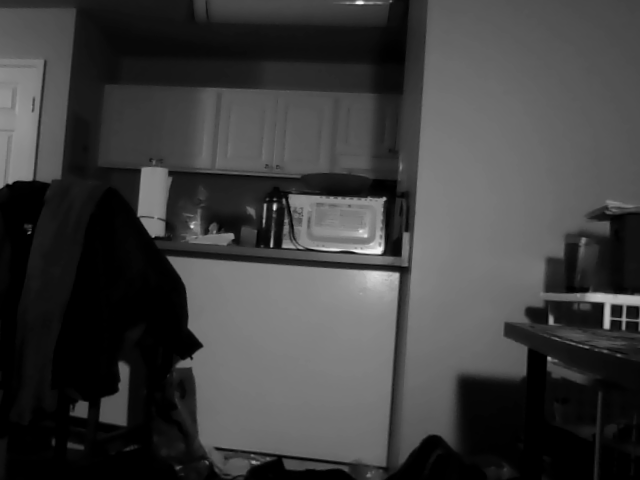
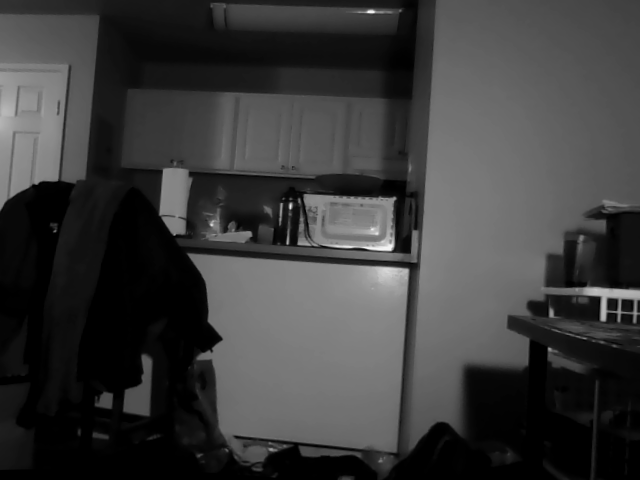
add fisheye functionality. add potential wls filtering to stereo_vision.py

diff --git a/computer_vision/calibration/opencv_fisheye_calibration.py b/computer_vision/calibration/opencv_fisheye_calibration.py
@@ -1,0 +1,205 @@
+import cv2
+import glob
+import numpy as np
+from computer_vision import config
+
+def calibrate_camera(images_folder, calibration_parameters):
+    images_names = sorted(glob.glob(images_folder))
+    images = []
+    for imname in images_names:
+        im = cv2.imread(imname, cv2.IMREAD_GRAYSCALE)
+        images.append(im)
+ 
+    # criteria used by checkerboard pattern detector.
+    criteria = (cv2.TERM_CRITERIA_EPS + cv2.TERM_CRITERIA_MAX_ITER, 30, 0.001)
+ 
+    rows = calibration_parameters[0] # number of checkerboard rows.
+    columns = calibration_parameters[1] # number of checkerboard columns.
+    world_scaling = calibration_parameters[2] # size of one chessboard square in meters
+    shape = (rows, columns)
+ 
+    # coordinates of squares in the checkerboard world space
+    objp = np.zeros((1, rows * columns, 3), np.float32)
+    objp[0, :, :2] = np.mgrid[0:rows, 0:columns].T.reshape(-1, 2)
+    objp = world_scaling * objp
+ 
+    # frame dimensions
+    width = images[0].shape[1]
+    height = images[0].shape[0]
+ 
+    # pixel coordinates of checkerboards
+    imgpoints = [] # 2d points in image plane.
+ 
+    # coordinates of the checkerboard in checkerboard world space.
+    objpoints = [] # 3d point in real world space
+ 
+    for frame in images:
+ 
+        # find the checkerboard
+        ret, corners = cv2.findChessboardCorners(frame, shape, None)
+ 
+        if ret == True:
+ 
+            # convolution size used to improve corner detection. Don't make this too large.
+            conv_size = (3, 3)
+ 
+            # opencv can attempt to improve the checkerboard coordinates
+            corners = cv2.cornerSubPix(frame, corners, conv_size, (-1, -1), criteria)
+            cv2.drawChessboardCorners(frame, shape, corners, ret)
+ 
+            objpoints.append(objp)
+            imgpoints.append(corners)
+
+    # Ensure correct fisheye shapes
+    objpoints = [op.reshape(1, -1, 3) for op in objpoints]
+    imgpoints = [ip.reshape(1, -1, 2) for ip in imgpoints]
+
+    flags = cv2.fisheye.CALIB_RECOMPUTE_EXTRINSIC + \
+            cv2.fisheye.CALIB_FIX_SKEW + \
+            cv2.fisheye.CALIB_CHECK_COND
+
+    ret, mtx, dist, rvecs, tvecs = cv2.fisheye.calibrate(
+    objpoints, imgpoints, (width, height), None, None, None, None,
+    flags, criteria
+)
+ 
+    print('rmse:', ret)
+    print('camera matrix:\n', mtx)
+    print('distortion coeffs:', dist)
+    print('Rs:\n', rvecs)
+    print('Ts:\n', tvecs)
+ 
+    return mtx, dist
+
+
+def stereo_calibrate(mtx1, dist1, mtx2, dist2, left_images, right_images, calibration_parameters):
+    # read the synched frames
+    images_names_l = glob.glob(left_images)
+    images_names_l = sorted(images_names_l)
+    c1_images_names = images_names_l
+    
+    images_names_r = glob.glob(right_images)
+    images_names_r = sorted(images_names_r)
+    c2_images_names = images_names_r
+ 
+    c1_images = []
+    c2_images = []
+    for im1, im2 in zip(c1_images_names, c2_images_names):
+        _im = cv2.imread(im1, cv2.IMREAD_GRAYSCALE)
+        c1_images.append(_im)
+ 
+        _im = cv2.imread(im2, cv2.IMREAD_GRAYSCALE)
+        c2_images.append(_im)
+ 
+    # change this if stereo calibration not good.
+    criteria = (cv2.TERM_CRITERIA_EPS + cv2.TERM_CRITERIA_MAX_ITER, 100, 0.0001)
+ 
+    rows = calibration_parameters[0] # number of checkerboard rows.
+    columns = calibration_parameters[1] # number of checkerboard columns.
+    world_scaling = calibration_parameters[2] # size of one chessboard square in meters
+    shape = (rows, columns)
+ 
+    # coordinates of squares in the checkerboard world space
+    objp = np.zeros((rows*columns,3), np.float32)
+    objp[:,:2] = np.mgrid[0:rows,0:columns].T.reshape(-1,2)
+    objp = world_scaling* objp
+ 
+    # frame dimensions. Frames should be the same size.
+    width = c1_images[0].shape[1]
+    height = c1_images[0].shape[0]
+ 
+    # pixel coordinates of checkerboards
+    imgpoints_left = [] # 2d points in image plane.
+    imgpoints_right = []
+ 
+    # coordinates of the checkerboard in checkerboard world space.
+    objpoints = [] # 3d point in real world space
+ 
+    for frame1, frame2 in zip(c1_images, c2_images):
+        c_ret1, corners1 = cv2.findChessboardCorners(frame1, shape, None)
+        c_ret2, corners2 = cv2.findChessboardCorners(frame2, shape, None)
+ 
+        if c_ret1 == True and c_ret2 == True:
+            corners1 = cv2.cornerSubPix(frame1, corners1, (3, 3), (-1, -1), criteria)
+            corners2 = cv2.cornerSubPix(frame2, corners2, (3, 3), (-1, -1), criteria)
+ 
+            cv2.drawChessboardCorners(frame1, shape, corners1, c_ret1)
+            cv2.drawChessboardCorners(frame2, shape, corners2, c_ret2)
+ 
+            objpoints.append(objp)
+            imgpoints_left.append(corners1)
+            imgpoints_right.append(corners2)
+
+    # Ensure correct fisheye shapes
+    objpoints = [op.reshape(1, -1, 3) for op in objpoints]
+    imgpoints_left = [ip.reshape(1, -1, 2) for ip in imgpoints_left]
+    imgpoints_right = [ip.reshape(1, -1, 2) for ip in imgpoints_right]
+
+
+    result = cv2.fisheye.stereoCalibrate(
+        objpoints,
+        imgpoints_left,
+        imgpoints_right,
+        mtx1, dist1,
+        mtx2, dist2,
+        (width, height),
+        criteria=criteria,
+        flags=cv2.fisheye.CALIB_FIX_INTRINSIC
+    )
+
+    rms = result[0]
+    K1 = result[1]
+    D1 = result[2]
+    K2 = result[3]
+    D2 = result[4]
+    R  = result[5]
+    T  = result[6]
+
+    print("K1:\n", K1)
+    print("D1:\n", D1)
+    print("K2:\n", K2)
+    print("D2:\n", D2)
+    print("The overall reprojection error (RMS)", rms)
+
+    return rms, K1, D1, K2, D2, R, T
+
+
+if __name__ == "__main__":
+
+    rows = 6 # number of checkerboard rows.
+    columns = 9 # number of checkerboard columns.
+    world_scaling = 0.0186 # size of one chessboard square in meters
+    calibration_parameters = (rows, columns, world_scaling)
+
+    images_names = sorted(glob.glob(config.CALIBRATION_IMAGES_LEFT_PATH + "*"))
+    im = cv2.imread(images_names[0], cv2.IMREAD_GRAYSCALE)
+    imageSize = im.shape[::-1]
+    
+    mtx1, dist1 = calibrate_camera(config.CALIBRATION_IMAGES_LEFT_PATH + '*', calibration_parameters)
+    mtx2, dist2 = calibrate_camera(config.CALIBRATION_IMAGES_RIGHT_PATH + '*', calibration_parameters)
+
+    ret, K1, D1, K2, D2, R, T = stereo_calibrate(mtx1, dist1, mtx2, dist2, config.CALIBRATION_IMAGES_LEFT_PATH + '*', config.CALIBRATION_IMAGES_RIGHT_PATH + '*', calibration_parameters)
+
+    R1, R2, P1, P2, Q = cv2.fisheye.stereoRectify(
+        K1, D1, K2, D2, imageSize, R, T, 
+        cv2.CALIB_ZERO_DISPARITY,
+        imageSize, 
+        balance=0.0, 
+        fov_scale=1.0
+    )
+
+    # save calibration data for later use in stereo vision
+    np.savez(
+        config.CALIBRATION_PATH + config.CALIBRATION_VAR_FILE_FISHEYE,
+        K1=K1,
+        D1=D1,
+        K2=K2,
+        D2=D2,
+        R=R,
+        T=T,
+        R1=R1,
+        R2=R2,
+        P1=P1,
+        P2=P2,
+        Q=Q
+    )

diff --git a/computer_vision/main/stereo_vision.py b/computer_vision/main/stereo_vision.py
@@ -5,12 +5,14 @@ from pathlib import Path
 from computer_vision.main import image_capture
 from computer_vision import config
 
-# with current parameters give acc of +/- 20 cm. there is still a decent amount of block spots that affect readings
-
 cap0, cap1 = image_capture.camera_setup(config.LEFT_CAM_ID, config.RIGHT_CAM_ID)
 
+if config.IS_FISHEYE:
+    data = np.load(config.CALIBRATION_PATH + config.CALIBRATION_VAR_FILE_FISHEYE)
+else:
+    data = np.load(config.CALIBRATION_PATH + config.CALIBRATION_VAR_FILE)
+
 # load calibration data
-data = np.load(config.CALIBRATION_PATH + config.CALIBRATION_VAR_FILE)
 K1 = data["K1"]
 D1 = data["D1"]
 K2 = data["K2"]
@@ -32,13 +34,22 @@ def get_disparity(display):
 
     imageSize = frame0.shape[::-1]
 
-    map1x, map1y = cv2.initUndistortRectifyMap(
-        K1, D1, R1, P1, imageSize, cv2.CV_32FC1
-    )
+    if config.IS_FISHEYE:
+        map1x, map1y = cv2.fisheye.initUndistortRectifyMap(
+            K1, D1, R1, P1[:, :3], imageSize, cv2.CV_32FC1
+        )
 
-    map2x, map2y = cv2.initUndistortRectifyMap(
-        K2, D2, R2, P2, imageSize, cv2.CV_32FC1
-    )
+        map2x, map2y = cv2.fisheye.initUndistortRectifyMap(
+            K2, D2, R2, P2[:, :3], imageSize, cv2.CV_32FC1
+        )
+    else:
+        map1x, map1y = cv2.initUndistortRectifyMap(
+            K1, D1, R1, P1, imageSize, cv2.CV_32FC1
+        )
+
+        map2x, map2y = cv2.initUndistortRectifyMap(
+            K2, D2, R2, P2, imageSize, cv2.CV_32FC1
+        )
 
     frame0 = cv2.remap(frame0,  map1x, map1y, cv2.INTER_LINEAR)
     frame1 = cv2.remap(frame1,  map2x, map2y, cv2.INTER_LINEAR)
@@ -48,6 +59,7 @@ def get_disparity(display):
     num_disp = 128
     block_size = 10
     stereo = cv2.StereoSGBM_create(
+    # left_matcher = cv2.StereoSGBM_create(
         minDisparity=0,
         numDisparities=num_disp,
         blockSize=block_size,
@@ -59,11 +71,28 @@ def get_disparity(display):
         speckleRange=2
     )
 
-    disparity = stereo.compute(frame0, frame1).astype(np.float32) / 16.0
+    # disparity without wls seems to have better distance results but has more black holes in disparity map
+    disparity = stereo.compute(frame0, frame1).astype(np.float32) / 16.0 # comment out this line and uncomment below to try wls filter
 
-    # median blur to remove noise
+    # uncomment below and left_matcher above to use wls which highly reduces black blobs but seems to reduce distance accuarcy
+    # right_matcher = cv2.ximgproc.createRightMatcher(left_matcher)
+    # # compute raw disparities
+    # dispL = left_matcher.compute(frame0, frame1).astype(np.int16)
+    # dispR = right_matcher.compute(frame1, frame0).astype(np.int16)
+    # #  WLS Filter
+    # wls = cv2.ximgproc.createDisparityWLSFilter(matcher_left=left_matcher)
+    # wls.setLambda(4000)          # smoothness strength
+    # wls.setSigmaColor(1.5)       # edge sensitivity
+
+    # disparity = wls.filter(dispL, frame0, disparity_map_right=dispR)
+
+    # median blur to remove noise and black blobs
     disparity[disparity <= 0] = 0
     disparity = cv2.medianBlur(disparity.astype(np.float32), 5)
+
+    # morphological closing to remove black blobs
+    kernel = np.ones((3,3), np.uint8)
+    disparity = cv2.morphologyEx(disparity, cv2.MORPH_CLOSE, kernel)
 
     map = cv2.normalize(disparity, None, 0, 255, cv2.NORM_MINMAX, cv2.CV_8U)
 

diff --git a/computer_vision/calibration/parameter_tuning.py b/computer_vision/calibration/parameter_tuning.py
@@ -39,7 +39,11 @@ def rectify_images():
     imageSize = im.shape[::-1]
 
     # load the calibration results
-    data = np.load(config.CALIBRATION_PATH + config.CALIBRATION_VAR_FILE)
+    if config.IS_FISHEYE:
+        data = np.load(config.CALIBRATION_PATH + config.CALIBRATION_VAR_FILE_FISHEYE)
+    else:
+        data = np.load(config.CALIBRATION_PATH + config.CALIBRATION_VAR_FILE)
+
 
     K1 = data["K1"]
     D1 = data["D1"]
@@ -53,14 +57,22 @@ def rectify_images():
     P2 = data["P2"]
     Q = data["Q"]
 
+    if config.IS_FISHEYE:
+        map1x, map1y = cv2.fisheye.initUndistortRectifyMap(
+            K1, D1, R1, P1[:, :3], imageSize, cv2.CV_32FC1
+        )
 
-    map1x, map1y = cv2.initUndistortRectifyMap(
-        K1, D1, R1, P1, imageSize, cv2.CV_32FC1
-    )
+        map2x, map2y = cv2.fisheye.initUndistortRectifyMap(
+            K2, D2, R2, P2[:, :3], imageSize, cv2.CV_32FC1
+        )
+    else:
+        map1x, map1y = cv2.initUndistortRectifyMap(
+            K1, D1, R1, P1, imageSize, cv2.CV_32FC1
+        )
 
-    map2x, map2y = cv2.initUndistortRectifyMap(
-        K2, D2, R2, P2, imageSize, cv2.CV_32FC1
-    )
+        map2x, map2y = cv2.initUndistortRectifyMap(
+            K2, D2, R2, P2, imageSize, cv2.CV_32FC1
+        )
 
     # do remapping based on grid findings
     imgs_l = sorted(glob.glob(config.CALIBRATION_TEST_IN_LEFT_PATH + "*"))

diff --git a/computer_vision/config.py b/computer_vision/config.py
@@ -18,6 +18,8 @@ CALIBRATION_TEST_OUT_LEFT_PATH = os.path.join(CALIBRATION_PATH, "calibration_tun
 CALIBRATION_TEST_OUT_RIGHT_PATH = os.path.join(CALIBRATION_PATH, "calibration_tuning_images/out/right/")
 
 CALIBRATION_VAR_FILE = "stereo_calibration_pinhole.npz"
+CALIBRATION_VAR_FILE_FISHEYE = "stereo_calibration_fisheye.npz"
 
 LEFT_CAM_ID = 0
 RIGHT_CAM_ID = 2
+IS_FISHEYE = True
